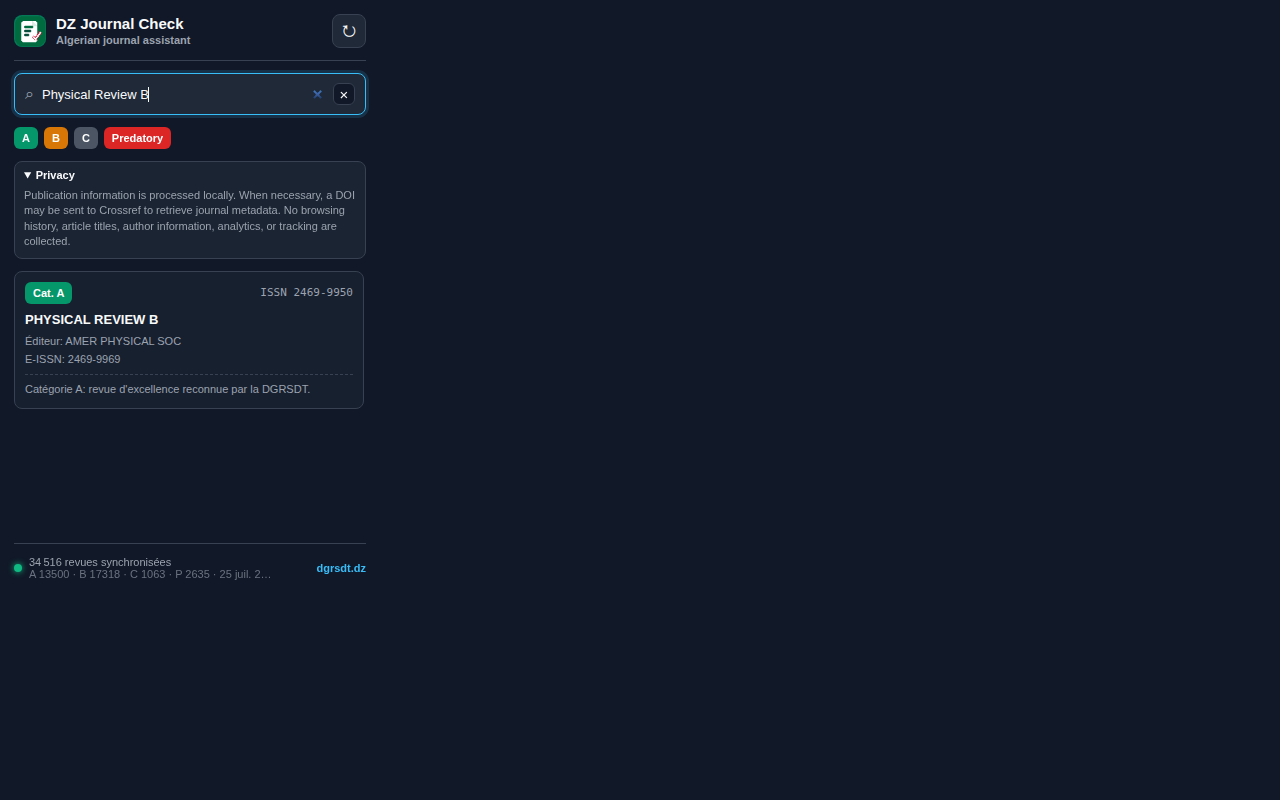
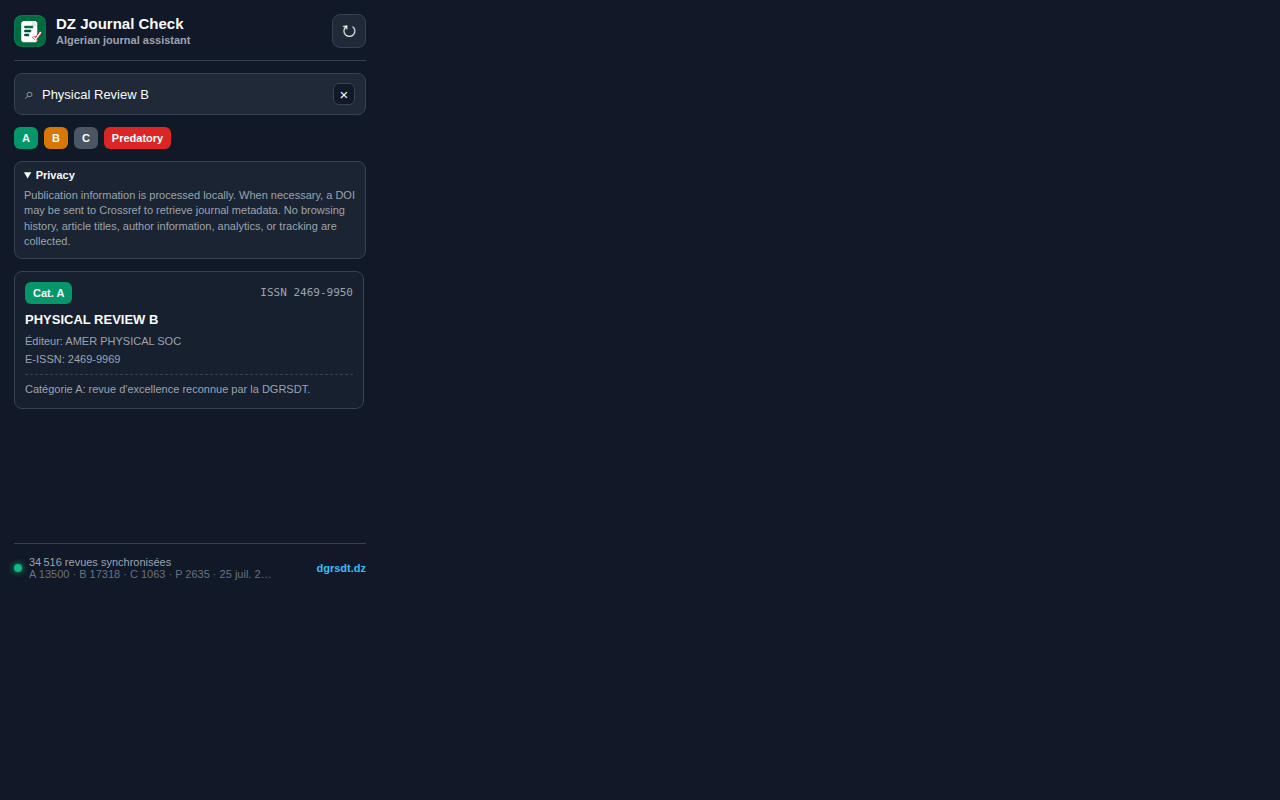
Deploy DZJC classification audit site update

diff --git a/DZJC/index.html b/DZJC/index.html
@@ -148,8 +148,8 @@
     <p class="dzjc-kicker">DZJC</p>
     <h1 id="dzjc-title">DZ Journal Check</h1>
     <p class="dzjc-lead">Check Algerian journal classifications directly on Google Scholar.</p>
-    <p>DZ Journal Check is an independent Chrome extension that displays DGRSDT/MESRS Category A, Category B, Category C, Predatory, Book / Thesis, and Unclassified badges while you review scientific publications.</p>
-    <p class="dzjc-status">Chrome Web Store release coming soon</p>
+    <p>DZ Journal Check is an independent Chrome extension that displays DGRSDT/MESRS Category A, Category B, Category C, Predatory, Conference, Book / Thesis, Preprint / Repository, and Unclassified badges while you review scientific publications.</p>
+    <p class="dzjc-status">Chrome Web Store publication paused for final classification QA</p>
     <div class="dzjc-hero-actions" aria-label="Primary links">
       <a class="dzjc-button-secondary" href="/DZJC/PRIVACY_POLICY_PUBLIC.html">Privacy policy</a>
       <a class="dzjc-button-secondary" href="/DZJC/SUPPORT.html">Support</a>
@@ -168,8 +168,9 @@
     <div class="dzjc-card"><h3>Scholar badges</h3><p>Displays compact classification badges on Google Scholar search results when a reliable venue match is found.</p></div>
     <div class="dzjc-card"><h3>Categories A, B, and C</h3><p>Matches journal titles, ISSNs, and E-ISSNs against the bundled local DGRSDT/MESRS database.</p></div>
     <div class="dzjc-card"><h3>Predatory records</h3><p>Identifies records from the bundled predatory source data when the match is reliable.</p></div>
-    <div class="dzjc-card"><h3>Unclassified by design</h3><p>Marks unclear venues, arXiv-only items, repository copies, and unsupported results as Unclassified instead of forcing weak matches.</p></div>
+    <div class="dzjc-card"><h3>Conservative by design</h3><p>Separates conferences, books, theses, preprints, repositories, unclear venues, and unsupported results instead of forcing weak journal matches.</p></div>
     <div class="dzjc-card"><h3>Books and theses</h3><p>Distinguishes books, theses, monographs, and other non-journal items from journal publications.</p></div>
+    <div class="dzjc-card"><h3>Conference detection</h3><p>Marks conference papers and proceedings separately unless exact journal evidence proves publication in a classified journal.</p></div>
     <div class="dzjc-card"><h3>Manual popup search</h3><p>Searches by journal title, ISSN, E-ISSN, or DOI from the extension popup.</p></div>
     <div class="dzjc-card"><h3>DOI metadata</h3><p>When necessary, DOI strings may be sent to Crossref to retrieve journal title and ISSN metadata.</p></div>
     <div class="dzjc-card"><h3>Author statistics</h3><p>Shows Category A and Category B publication counts on public Google Scholar author profiles.</p></div>
@@ -180,10 +181,11 @@
   <h2 id="how-it-works">How it works</h2>
   <div class="dzjc-steps">
     <div class="dzjc-step">The extension reads visible publication metadata on Google Scholar pages in your browser.</div>
-    <div class="dzjc-step">It compares visible venue titles, ISSNs, E-ISSNs, and result links with the bundled local database.</div>
+    <div class="dzjc-step">It first detects likely publication type, such as journal article, conference, book, thesis, preprint, repository, report, or unknown.</div>
+    <div class="dzjc-step">It compares only trusted venue titles, ISSNs, E-ISSNs, and DOI journal metadata with the bundled local database.</div>
     <div class="dzjc-step">When a DOI is visible and more metadata is needed, only the DOI string may be sent to Crossref.</div>
     <div class="dzjc-step">A classification badge is added to the Scholar result or author profile.</div>
-    <div class="dzjc-step">Ambiguous or unsupported publications remain Unclassified to reduce false positives.</div>
+    <div class="dzjc-step">Ambiguous or unsupported publications remain non-journal or Unclassified to reduce false positives.</div>
   </div>
 </section>
 <section class="dzjc-section" aria-labelledby="legend">
@@ -193,7 +195,9 @@
     <span class="dzjc-badge dzjc-badge-b" role="listitem" aria-label="Category B">Category B</span>
     <span class="dzjc-badge dzjc-badge-c" role="listitem" aria-label="Category C">Category C</span>
     <span class="dzjc-badge dzjc-badge-p" role="listitem" aria-label="Predatory">Predatory</span>
+    <span class="dzjc-badge dzjc-badge-u" role="listitem" aria-label="Conference">Conference</span>
     <span class="dzjc-badge dzjc-badge-book" role="listitem" aria-label="Book or thesis">Book / Thesis</span>
+    <span class="dzjc-badge dzjc-badge-u" role="listitem" aria-label="Preprint or repository">Preprint / Repository</span>
     <span class="dzjc-badge dzjc-badge-u" role="listitem" aria-label="Unclassified">Unclassified</span>
   </div>
 </section>
@@ -205,7 +209,7 @@
     <div class="dzjc-card"><h3>17,318 Category B</h3><p>Category B records in the current bundled database.</p></div>
     <div class="dzjc-card"><h3>1,063 Category C</h3><p>MESRS recensement / Category C records.</p></div>
     <div class="dzjc-card"><h3>2,635 Predatory</h3><p>Predatory journal or publisher records in the bundled source data.</p></div>
-    <div class="dzjc-card"><h3>Version 1.0.1</h3><p>Current extension release candidate package metadata.</p></div>
+    <div class="dzjc-card"><h3>Version 1.0.2</h3><p>Classification audit build. Publication remains paused until final browser QA is complete.</p></div>
   </div>
 </section>
 <section class="dzjc-section" aria-labelledby="privacy">
@@ -220,19 +224,19 @@
   <p>The Scholar screenshots below are browser QA demonstrations produced with the real extension on deterministic Scholar-like pages because live Google Scholar returned automated-access protection in the capture environment. The popup screenshot shows the real extension popup.</p>
   <div class="dzjc-screenshot-grid">
     <figure class="dzjc-screenshot">
-      <img src="/DZJC/assets/screenshots/01-scholar-classification.png" alt="Google Scholar-like results with DZ Journal Check Category A and Category B badges">
+      <img src="/DZJC/assets/screenshots/01-scholar-category-a-b.png" alt="Google Scholar-like results with DZ Journal Check Category A and Category B badges">
       <figcaption>Scholar result badges for Category A and Category B journals.</figcaption>
     </figure>
     <figure class="dzjc-screenshot">
-      <img src="/DZJC/assets/screenshots/02-predatory-unclassified.png" alt="Google Scholar-like results with Category C, Predatory, Book or Thesis, and Unclassified badges">
-      <figcaption>Category C, Predatory, Book / Thesis, arXiv, repository, and Unclassified cases.</figcaption>
+      <img src="/DZJC/assets/screenshots/02-category-c-predatory-unclassified.png" alt="Google Scholar-like results with Category C, Predatory, Book or Thesis, Preprint or Repository, and Unclassified badges">
+      <figcaption>Category C, Predatory, Book / Thesis, Preprint / Repository, and Unclassified cases.</figcaption>
     </figure>
     <figure class="dzjc-screenshot">
       <img src="/DZJC/assets/screenshots/03-doi-resolution.png" alt="Google Scholar-like DOI result resolved to a Category A journal badge">
       <figcaption>DOI-assisted journal detection resolving a PNAS-style result.</figcaption>
     </figure>
     <figure class="dzjc-screenshot">
-      <img src="/DZJC/assets/screenshots/04-author-profile-stats.png" alt="Google Scholar-like author profile with DZ Journal Check Category A and Category B statistics">
+      <img src="/DZJC/assets/screenshots/04-author-profile-statistics.png" alt="Google Scholar-like author profile with DZ Journal Check Category A and Category B statistics">
       <figcaption>Author profile statistics with Category A and Category B counts.</figcaption>
     </figure>
     <figure class="dzjc-screenshot">
@@ -244,8 +248,8 @@
 <section class="dzjc-section" aria-labelledby="install">
   <h2 id="install">Chrome Web Store installation</h2>
   <div class="dzjc-panel dzjc-note">
-    <p><strong>Chrome Web Store release coming soon.</strong></p>
-    <p>No public Chrome Web Store URL has been issued yet. When the listing is approved, the installation link should be inserted in this section and in the store listing materials.</p>
+    <p><strong>Chrome Web Store publication is paused.</strong></p>
+    <p>No public Chrome Web Store URL has been issued yet. The extension is undergoing final classification QA to reduce false journal-category badges on books, conferences, repositories, and ambiguous Scholar records.</p>
   </div>
 </section>
 <section class="dzjc-section" aria-labelledby="limitations">
@@ -254,7 +258,7 @@
     <li>Official DGRSDT/MESRS journal lists can change after the bundled database is generated.</li>
     <li>Google Scholar HTML can change and may affect badge placement.</li>
     <li>Crossref metadata may be incomplete or temporarily unavailable.</li>
-    <li>Ambiguous publications may remain Unclassified to avoid false positives.</li>
+    <li>Ambiguous publications may remain Conference, Book / Thesis, Preprint / Repository, or Unclassified to avoid false positives.</li>
     <li>Profile statistics can be partial if Google Scholar limits or blocks profile page requests.</li>
     <li>Important academic or administrative decisions should be verified against official DGRSDT/MESRS sources.</li>
   </ul>
